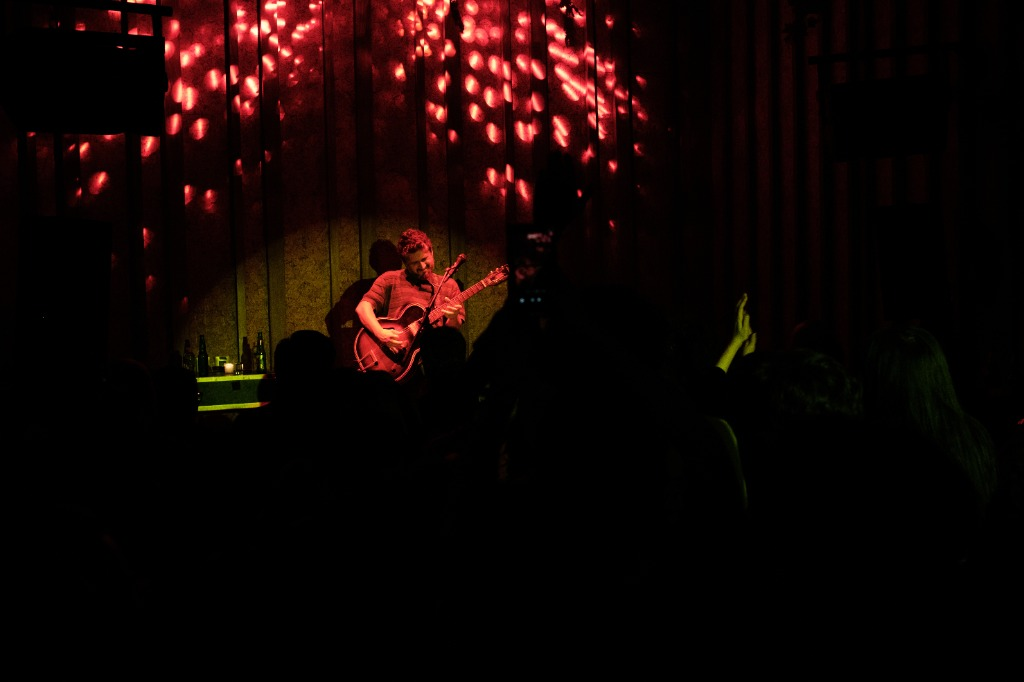
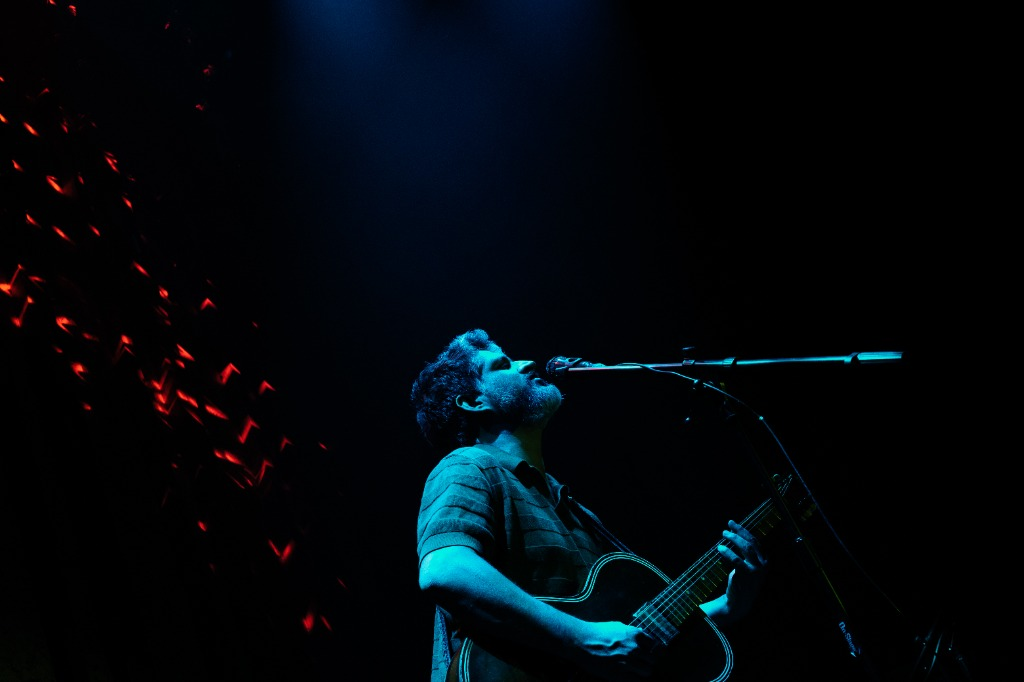
Completar catalogo de discografia desde Bandcamp, simplificar menu de inicio y actualizar imagen de fondo del indice

diff --git a/index.html b/index.html
@@ -60,33 +60,27 @@
       <ul class="index">
         <li><a href="#/fechas">
           <span class="ix-num num">01</span>
-          <span class="ix-name">Fechas</span>
-          <span class="ix-desc">La ruta nocturna <span class="ix-arrow">→</span></span>
+          <span class="ix-name">Fechas <span class="ix-arrow">→</span></span>
         </a></li>
         <li><a href="#/discos">
           <span class="ix-num num">02</span>
-          <span class="ix-name">Discografía</span>
-          <span class="ix-desc">Registros de obra <span class="ix-arrow">→</span></span>
+          <span class="ix-name">Discografía <span class="ix-arrow">→</span></span>
         </a></li>
         <li><a href="#/video">
           <span class="ix-num num">03</span>
-          <span class="ix-name">Vídeo</span>
-          <span class="ix-desc">Vibraciones <span class="ix-arrow">→</span></span>
+          <span class="ix-name">Vídeo <span class="ix-arrow">→</span></span>
         </a></li>
         <li><a href="#/archivo">
           <span class="ix-num num">04</span>
-          <span class="ix-name">Archivo</span>
-          <span class="ix-desc">Posters & texturas <span class="ix-arrow">→</span></span>
+          <span class="ix-name">Archivo <span class="ix-arrow">→</span></span>
         </a></li>
         <li><a href="#/biografia">
           <span class="ix-num num">05</span>
-          <span class="ix-name">Bio</span>
-          <span class="ix-desc">El sonido analógico <span class="ix-arrow">→</span></span>
+          <span class="ix-name">Bio <span class="ix-arrow">→</span></span>
         </a></li>
         <li><a href="#/contacto">
           <span class="ix-num num">06</span>
-          <span class="ix-name">Contacto</span>
-          <span class="ix-desc">Prensa & booking <span class="ix-arrow">→</span></span>
+          <span class="ix-name">Contacto <span class="ix-arrow">→</span></span>
         </a></li>
       </ul>
 
@@ -216,18 +210,39 @@
       </div>
 
       <div class="disco" id="discoGrid">
-        <article class="album" data-cat="solista"><div class="cover"><img src="assets/album-prietto.jpg" alt="PRIETTO (2015)" loading="lazy"/></div><span class="meta-line">Prietto · 2015</span><span class="a-title">PRIETTO</span><span class="a-desc">Estás Lejos, Error Blues, Vívelo.</span><a class="btn-buy" href="https://prietto.bandcamp.com/album/prietto" target="_blank" rel="noopener">Comprar</a></article>
-        <article class="album" data-cat="solista"><div class="cover"><img src="assets/album-lluvia.jpg" alt="Lluvia en la Cumbrecita (2019)" loading="lazy"/></div><span class="meta-line">Prietto · 2019</span><span class="a-title">Lluvia en la Cumbrecita</span><span class="a-desc">Canciones de ruta, lluvia y montaña.</span><a class="btn-buy" href="https://prietto.bandcamp.com/album/lluvia-en-la-cumbrecita" target="_blank" rel="noopener">Comprar</a></article>
-        <article class="album" data-cat="solista"><div class="cover"><img src="assets/album-blanco-negro.jpg" alt="Blanco y Negro (2020)" loading="lazy"/></div><span class="meta-line">Prietto · 2020</span><span class="a-title">Blanco y Negro</span><span class="a-desc">Canciones grabadas durante el encierro.</span><a class="btn-buy" href="https://prietto.bandcamp.com/album/blanco-y-negro" target="_blank" rel="noopener">Comprar</a></article>
-        <article class="album" data-cat="solista"><div class="cover"><img src="assets/album-astro.jpg" alt="Astro Lo Fi Beats (2022)" loading="lazy"/></div><span class="meta-line">Prietto · 2022</span><span class="a-title">Astro Lo Fi Beats</span><span class="a-desc">Beats de otra dimensión.</span><a class="btn-buy" href="https://prietto.bandcamp.com/album/astro-lo-fi-beats" target="_blank" rel="noopener">Comprar</a></article>
-        <article class="album" data-cat="espiritus"><div class="cover"><img src="assets/album-espiritus-debut.jpg" alt="Los Espíritus (2013)" loading="lazy"/></div><span class="meta-line">Los Espíritus · 2013</span><span class="a-title">Los Espíritus</span><span class="a-desc">Álbum debut de la banda.</span><a class="btn-buy" href="https://losespiritus.bandcamp.com/album/los-esp-ritus" target="_blank" rel="noopener">Comprar</a></article>
-        <article class="album" data-cat="espiritus"><div class="cover"><img src="assets/album-gratitud.jpg" alt="Gratitud (2015)" loading="lazy"/></div><span class="meta-line">Los Espíritus · 2015</span><span class="a-title">Gratitud</span><span class="a-desc">El salto internacional.</span><a class="btn-buy" href="https://losespiritus.bandcamp.com/album/gratitud-2" target="_blank" rel="noopener">Comprar</a></article>
-        <article class="album" data-cat="espiritus"><div class="cover"><img src="assets/album-agua-ardiente.jpg" alt="Agua Ardiente (2017)" loading="lazy"/></div><span class="meta-line">Los Espíritus · 2017</span><span class="a-title">Agua Ardiente</span><span class="a-desc">Blues psicodélico y camino de tierra.</span><a class="btn-buy" href="https://losespiritus.bandcamp.com/album/agua-ardiente" target="_blank" rel="noopener">Comprar</a></article>
-        <article class="album" data-cat="espiritus"><div class="cover"><img src="assets/album-caldero.jpg" alt="Caldero (2019)" loading="lazy"/></div><span class="meta-line">Los Espíritus · 2019</span><span class="a-title">Caldero</span><span class="a-desc">Nueva formación, mismo fuego.</span><a class="btn-buy" href="https://losespiritus.bandcamp.com/album/caldero" target="_blank" rel="noopener">Comprar</a></article>
-        <article class="album" data-cat="espiritus"><div class="cover"><img src="assets/album-montana.jpg" alt="La Montaña (2023)" loading="lazy"/></div><span class="meta-line">Los Espíritus · 2023</span><span class="a-title">La Montaña</span><span class="a-desc">Blues rock y psicodelia.</span><a class="btn-buy" href="https://losespiritus.bandcamp.com/album/la-monta-a" target="_blank" rel="noopener">Comprar</a></article>
-        <article class="album" data-cat="cosmos"><div class="cover"><img src="assets/album-cosmos-ep.jpg" alt="Viaja al Cosmos (2007)" loading="lazy"/></div><span class="meta-line">Cosmos · 2007</span><span class="a-title">Viaja al Cosmos</span><span class="a-desc">Av. Corrientes, Cruzando el Parque.</span><a class="btn-buy" href="https://priettoviajaalcosmosconmariano.bandcamp.com/album/prietto-viaja-al-cosmos-con-mariano" target="_blank" rel="noopener">Comprar</a></article>
+        <!-- SOLISTA -->
+        <article class="album" data-cat="solista"><div class="cover"><img src="assets/album-prietto.jpg" alt="PRIETTO (2015)" loading="lazy"/></div><span class="meta-line">Solista · 2015</span><span class="a-title">PRIETTO</span><span class="a-desc">Estás Lejos, Error Blues, Vívelo.</span><a class="btn-buy" href="https://prietto.bandcamp.com/album/prietto" target="_blank" rel="noopener">Comprar</a></article>
+        <article class="album" data-cat="solista"><div class="cover"><img src="assets/album-lluvia.jpg" alt="Lluvia en la Cumbrecita (2019)" loading="lazy"/></div><span class="meta-line">Solista · 2019</span><span class="a-title">Lluvia en la Cumbrecita</span><span class="a-desc">Canciones de ruta, lluvia y montaña.</span><a class="btn-buy" href="https://prietto.bandcamp.com/album/lluvia-en-la-cumbrecita" target="_blank" rel="noopener">Comprar</a></article>
+        <article class="album" data-cat="solista"><div class="cover"><img src="assets/album-blanco-negro.jpg" alt="Blanco y Negro (2020)" loading="lazy"/></div><span class="meta-line">Solista · 2020</span><span class="a-title">Blanco y Negro</span><span class="a-desc">Canciones grabadas durante el encierro.</span><a class="btn-buy" href="https://prietto.bandcamp.com/album/blanco-y-negro" target="_blank" rel="noopener">Comprar</a></article>
+        <article class="album" data-cat="solista"><div class="cover"><img src="assets/album-astro.jpg" alt="Astro Lo Fi Beats (2022)" loading="lazy"/></div><span class="meta-line">Solista · 2022</span><span class="a-title">Astro Lo Fi Beats</span><span class="a-desc">Beats de otra dimensión.</span><a class="btn-buy" href="https://prietto.bandcamp.com/album/astro-lo-fi-beats" target="_blank" rel="noopener">Comprar</a></article>
+        <article class="album" data-cat="solista"><div class="cover"><img src="assets/album-boleros-canciones.jpg" alt="Boleros & Canciones (2018)" loading="lazy"/></div><span class="meta-line">Solista · 2018</span><span class="a-title">Boleros & Canciones</span><span class="a-desc">Cariñito, Sabor a mí, Algo contigo.</span><a class="btn-buy" href="https://prietto.bandcamp.com/album/boleros-canciones" target="_blank" rel="noopener">Comprar</a></article>
+        <article class="album" data-cat="solista"><div class="cover"><img src="assets/album-bano-de-bosque.jpg" alt="Baño de Bosque (2022)" loading="lazy"/></div><span class="meta-line">Solista · 2022</span><span class="a-title">Baño de Bosque</span><span class="a-desc">Registros acústicos en la naturaleza.</span><a class="btn-buy" href="https://prietto.bandcamp.com/album/ba-o-de-bosque" target="_blank" rel="noopener">Comprar</a></article>
+        <article class="album" data-cat="solista"><div class="cover"><img src="assets/album-hogo-sound.jpg" alt="Hogo Sound (2022)" loading="lazy"/></div><span class="meta-line">Solista · 2022</span><span class="a-title">Hogo Sound</span><span class="a-desc">Intro, Samurái, Mouy.</span><a class="btn-buy" href="https://prietto.bandcamp.com/album/hogo-sound" target="_blank" rel="noopener">Comprar</a></article>
+        <article class="album" data-cat="solista"><div class="cover"><img src="assets/album-la-ultima-noche.jpg" alt="La Última Noche (2022)" loading="lazy"/></div><span class="meta-line">Solista · 2022</span><span class="a-title">La Última Noche</span><span class="a-desc">Historia de un amor, Sabor a mí, 20 años.</span><a class="btn-buy" href="https://prietto.bandcamp.com/album/la-ultima-noche" target="_blank" rel="noopener">Comprar</a></article>
+        <article class="album" data-cat="solista"><div class="cover"><img src="assets/album-playa-nocturna-vol-2.jpg" alt="Playa Nocturna Vol 2 (2020)" loading="lazy"/></div><span class="meta-line">Solista · 2020</span><span class="a-title">Playa Nocturna Vol 2</span><span class="a-desc">Dos gardenias, Flotando en la oscuridad.</span><a class="btn-buy" href="https://prietto.bandcamp.com/album/playa-nocturna-vol-2" target="_blank" rel="noopener">Comprar</a></article>
+        <article class="album" data-cat="solista"><div class="cover"><img src="assets/album-playa-nocturna-vol-3.jpg" alt="Playa Nocturna Vol 3 (2021)" loading="lazy"/></div><span class="meta-line">Solista · 2021</span><span class="a-title">Playa Nocturna Vol 3</span><span class="a-desc">Otra tumba más, No te rindas.</span><a class="btn-buy" href="https://prietto.bandcamp.com/album/playa-nocturna-vol-3" target="_blank" rel="noopener">Comprar</a></article>
+        <article class="album" data-cat="solista"><div class="cover"><img src="assets/album-playa-nocturna-vol-4.jpg" alt="Playa Nocturna Vol 4 (2022)" loading="lazy"/></div><span class="meta-line">Solista · 2022</span><span class="a-title">Playa Nocturna Vol 4</span><span class="a-desc">Rumbo a Hong Kong, Solo una canción más.</span><a class="btn-buy" href="https://prietto.bandcamp.com/album/playa-nocturna-vol-4" target="_blank" rel="noopener">Comprar</a></article>
+        <article class="album" data-cat="solista"><div class="cover"><img src="assets/album-una-velada-blues-boleros.jpg" alt="Una Velada de Blues & Boleros (2022)" loading="lazy"/></div><span class="meta-line">Solista · 2022</span><span class="a-title">Una Velada de Blues & Boleros</span><span class="a-desc">Perro de Hospital, Estás Lejos, Error Blues.</span><a class="btn-buy" href="https://prietto.bandcamp.com/album/una-velada-de-blues-boleros" target="_blank" rel="noopener">Comprar</a></article>
+        <article class="album" data-cat="solista"><div class="cover"><img src="assets/album-pin-de-fartie.jpg" alt="Pin de Fartie (Soundtrack) (2022)" loading="lazy"/></div><span class="meta-line">Solista · 2022</span><span class="a-title">Pin de Fartie (Soundtrack)</span><span class="a-desc">Viene arrastrándose, Socorro.</span><a class="btn-buy" href="https://prietto.bandcamp.com/album/pin-de-fartie-soundtrack" target="_blank" rel="noopener">Comprar</a></article>
+
+        <!-- LOS ESPIRITUS -->
+        <article class="album" data-cat="espiritus"><div class="cover"><img src="assets/album-espiritus-debut.jpg" alt="Los Espíritus (2013)" loading="lazy"/></div><span class="meta-line">Espiritus · 2013</span><span class="a-title">Los Espíritus</span><span class="a-desc">Álbum debut de la banda. Lo echaron del bar.</span><a class="btn-buy" href="https://losespiritus.bandcamp.com/album/los-espiritus" target="_blank" rel="noopener">Comprar</a></article>
+        <article class="album" data-cat="espiritus"><div class="cover"><img src="assets/album-gratitud.jpg" alt="Gratitud (2015)" loading="lazy"/></div><span class="meta-line">Espiritus · 2015</span><span class="a-title">Gratitud</span><span class="a-desc">El salto internacional. La crecida.</span><a class="btn-buy" href="https://losespiritus.bandcamp.com/album/gratitud-2" target="_blank" rel="noopener">Comprar</a></article>
+        <article class="album" data-cat="espiritus"><div class="cover"><img src="assets/album-agua-ardiente.jpg" alt="Agua Ardiente (2017)" loading="lazy"/></div><span class="meta-line">Espiritus · 2017</span><span class="a-title">Agua Ardiente</span><span class="a-desc">Blues psicodélico y camino de tierra. Camina.</span><a class="btn-buy" href="https://losespiritus.bandcamp.com/album/agua-ardiente" target="_blank" rel="noopener">Comprar</a></article>
+        <article class="album" data-cat="espiritus"><div class="cover"><img src="assets/album-caldero.jpg" alt="Caldero (2019)" loading="lazy"/></div><span class="meta-line">Espiritus · 2019</span><span class="a-title">Caldero</span><span class="a-desc">Nueva formación, mismo fuego.</span><a class="btn-buy" href="https://losespiritus.bandcamp.com/album/caldero" target="_blank" rel="noopener">Comprar</a></article>
+        <article class="album" data-cat="espiritus"><div class="cover"><img src="assets/album-sancocho-stereo.jpg" alt="Sancocho Stereo (2021)" loading="lazy"/></div><span class="meta-line">Espiritus · 2021</span><span class="a-title">Sancocho Stereo</span><span class="a-desc">Buscando la luz, Mugre, Jericó.</span><a class="btn-buy" href="https://losespiritus.bandcamp.com/album/sancocho-stereo" target="_blank" rel="noopener">Comprar</a></article>
+        <article class="album" data-cat="espiritus"><div class="cover"><img src="assets/album-montana.jpg" alt="La Montaña (2023)" loading="lazy"/></div><span class="meta-line">Espiritus · 2023</span><span class="a-title">La Montaña</span><span class="a-desc">Blues rock y psicodelia.</span><a class="btn-buy" href="https://losespiritus.bandcamp.com/album/la-monta-a" target="_blank" rel="noopener">Comprar</a></article>
+        <article class="album" data-cat="espiritus"><div class="cover"><img src="assets/album-hacele-caso-a-tu-espiritu.jpg" alt="Hacele caso a tu espíritu! (2010)" loading="lazy"/></div><span class="meta-line">Espiritus · 2010</span><span class="a-title">Hacele caso a tu espíritu!</span><span class="a-desc">Primeros registros y demos.</span><a class="btn-buy" href="https://losespiritus.bandcamp.com/album/hacele-caso-a-tu-espiritu" target="_blank" rel="noopener">Comprar</a></article>
+        <article class="album" data-cat="espiritus"><div class="cover"><img src="assets/album-lo-echaron-del-bar-ep.jpg" alt="Lo echaron del bar EP (2011)" loading="lazy"/></div><span class="meta-line">Espiritus · 2011</span><span class="a-title">Lo echaron del bar EP</span><span class="a-desc">Lo echaron del bar, Jesús rima con cruz.</span><a class="btn-buy" href="https://losespiritus.bandcamp.com/album/lo-echaron-del-bar-ep" target="_blank" rel="noopener">Comprar</a></article>
+        <article class="album" data-cat="espiritus"><div class="cover"><img src="assets/album-el-gato-ep.jpg" alt="El Gato EP (2012)" loading="lazy"/></div><span class="meta-line">Espiritus · 2012</span><span class="a-title">El Gato EP</span><span class="a-desc">El gato, El blus, Aunque nos vayamos.</span><a class="btn-buy" href="https://losespiritus.bandcamp.com/album/el-gato-ep" target="_blank" rel="noopener">Comprar</a></article>
+
+        <!-- COSMOS -->
+        <article class="album" data-cat="cosmos"><div class="cover"><img src="assets/album-cosmos-ep.jpg" alt="Viaja al Cosmos EP (2007)" loading="lazy"/></div><span class="meta-line">Cosmos · 2007</span><span class="a-title">Viaja al Cosmos EP</span><span class="a-desc">Av. Corrientes, Chispas, Cruzando el Parque.</span><a class="btn-buy" href="https://priettoviajaalcosmosconmariano.bandcamp.com/album/prietto-viaja-al-cosmos-con-mariano-ep" target="_blank" rel="noopener">Comprar</a></article>
         <article class="album" data-cat="cosmos"><div class="cover"><img src="assets/album-puedo-viajar.jpg" alt="Los Puedo Viajar (2014)" loading="lazy"/></div><span class="meta-line">Cosmos · 2014</span><span class="a-title">Los Puedo Viajar</span><span class="a-desc">Dos personas tocando lo que les pinta.</span><a class="btn-buy" href="https://priettoviajaalcosmosconmariano.bandcamp.com/album/los-puedo-viajar" target="_blank" rel="noopener">Comprar</a></article>
-        <article class="album" data-cat="cosmos"><div class="cover"><img src="assets/album-cronicas.jpg" alt="Crónicas (2021)" loading="lazy"/></div><span class="meta-line">Cosmos · 2021</span><span class="a-title">Crónicas</span><span class="a-desc">Editado por Alto Valle. Vinilo 12&quot;.</span><a class="btn-buy" href="https://priettoviajaalcosmosconmariano.bandcamp.com/album/cr-nicas" target="_blank" rel="noopener">Comprar</a></article>
+        <article class="album" data-cat="cosmos"><div class="cover"><img src="assets/album-experiencias-salon-cosmico.jpg" alt="Experiencias del Salón Cósmico (2006)" loading="lazy"/></div><span class="meta-line">Cosmos · 2006</span><span class="a-title">Experiencias del Salón Cósmico</span><span class="a-desc">De la experiencia en México, Alucinando en el Salón Cósmico.</span><a class="btn-buy" href="https://priettoviajaalcosmosconmariano.bandcamp.com/album/experiencias-del-sal-n-c-smico" target="_blank" rel="noopener">Comprar</a></article>
+        <article class="album" data-cat="cosmos"><div class="cover"><img src="assets/album-le-priet-vaha-chosmos.jpg" alt="Le Priët VAHA-CHOSMOS (2011)" loading="lazy"/></div><span class="meta-line">Cosmos · 2011</span><span class="a-title">Le Priët VAHA-CHOSMOS</span><span class="a-desc">Bahía Rosales, Ey esa no es forma de decir adiós.</span><a class="btn-buy" href="https://priettoviajaalcosmosconmariano.bandcamp.com/album/le-pri-t-vaha-chosmos-e-ba-con-maourian" target="_blank" rel="noopener">Comprar</a></article>
+        <article class="album" data-cat="cosmos"><div class="cover"><img src="assets/album-lou-fai-home-sessions-ii.jpg" alt="Lou Fai Home sessions vol II (2007)" loading="lazy"/></div><span class="meta-line">Cosmos · 2007</span><span class="a-title">Lou Fai Home sessions vol II</span><span class="a-desc">Cruzando el parque, Verano fatal.</span><a class="btn-buy" href="https://priettoviajaalcosmosconmariano.bandcamp.com/album/lou-fai-home-sessions-vol-ii" target="_blank" rel="noopener">Comprar</a></article>
+        <article class="album" data-cat="cosmos"><div class="cover"><img src="assets/album-cronicas.jpg" alt="Crónicas (2021)" loading="lazy"/></div><span class="meta-line">Cosmos · 2021</span><span class="a-title">Crónicas</span><span class="a-desc">Editado por Alto Valle. Vinilo 12".</span><a class="btn-buy" href="https://priettoviajaalcosmosconmariano.bandcamp.com/" target="_blank" rel="noopener">Comprar</a></article>
       </div>
     </div>
   </section>

diff --git a/styles.css b/styles.css
@@ -215,6 +215,7 @@ button { font-family: inherit; cursor: pointer; }
   border-top: 1px solid var(--rule);
   position: relative;
   z-index: 1;
+  max-width: 520px;
 }
 .index li {
   border-bottom: 1px solid var(--rule);
@@ -230,10 +231,9 @@ button { font-family: inherit; cursor: pointer; }
 
 .index a {
   display: grid;
-  grid-template-columns: 3.2em 1fr auto;
+  grid-template-columns: 3.2em 1fr;
   align-items: baseline;
-  gap: clamp(0.75rem, 2vw, 2rem);
-  padding: clamp(0.55rem, 1.5vh, 1.05rem) clamp(0.4rem, 1.5vw, 1.1rem);
+  gap: clamp(0.5rem, 1.5vw, 1rem);
   position: relative;
   overflow: hidden;
   z-index: 1;
@@ -267,20 +267,13 @@ button { font-family: inherit; cursor: pointer; }
   letter-spacing: -0.02em;
   line-height: 1;
 }
-.index .ix-desc {
-  font-size: 0.7rem;
-  letter-spacing: 0.04em;
-  color: var(--ink-45);
-  text-transform: uppercase;
-  text-align: right;
-  white-space: nowrap;
-}
 .index .ix-arrow {
   display: inline-block;
   opacity: 0;
-  transform: translateX(-0.4em);
+  transform: translateX(-0.3em);
   transition: opacity var(--t-fast), transform var(--t-fast);
   font-weight: 700;
+  margin-left: 0.5em;
 }
 .index a:hover,
 .index a:focus-visible {
@@ -289,11 +282,9 @@ button { font-family: inherit; cursor: pointer; }
   outline: none;
 }
 .index a:hover .ix-num,
-.index a:hover .ix-desc,
-.index a:focus-visible .ix-num,
-.index a:focus-visible .ix-desc { color: rgba(255,255,255,0.6); }
+.index a:focus-visible .ix-num { color: rgba(255,255,255,0.6); }
 .index a:hover .ix-arrow,
-.index a:focus-visible .ix-arrow { opacity: 1; transform: translateX(0); }
+.index a:focus-visible .ix-arrow { opacity: 1; transform: translateX(0.15em); }
 
 .sheet-foot {
   display: flex;
